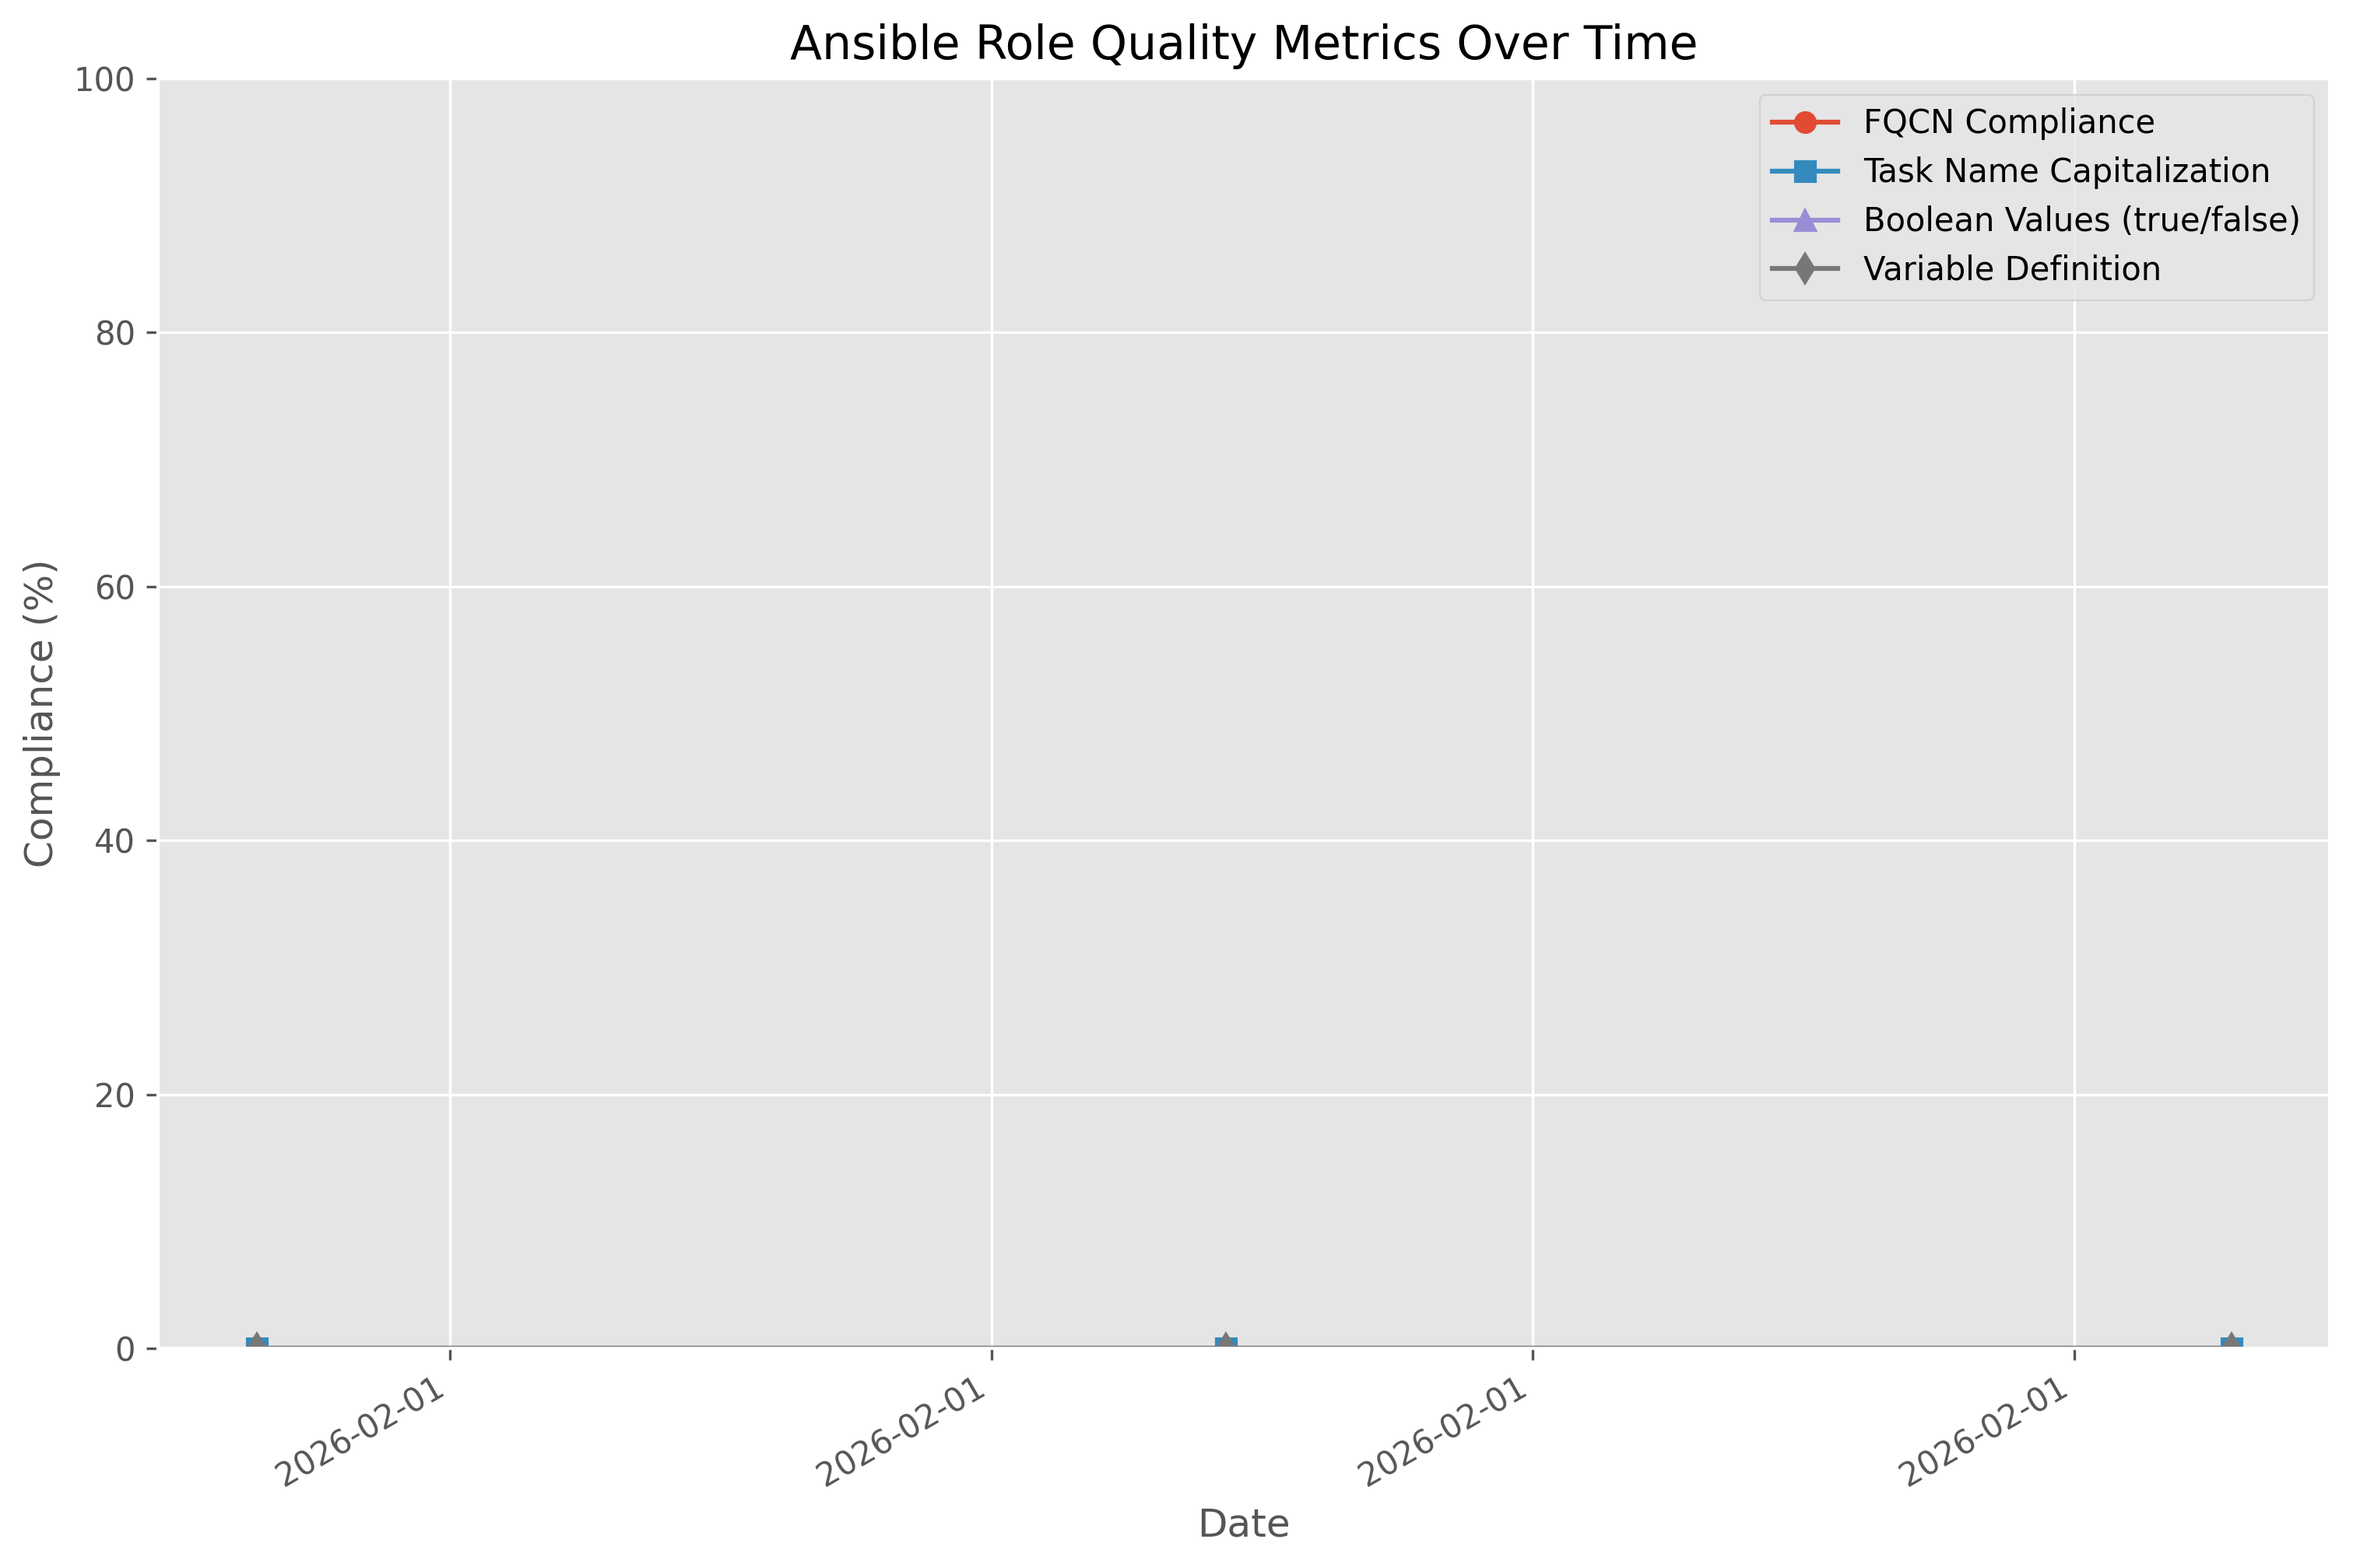
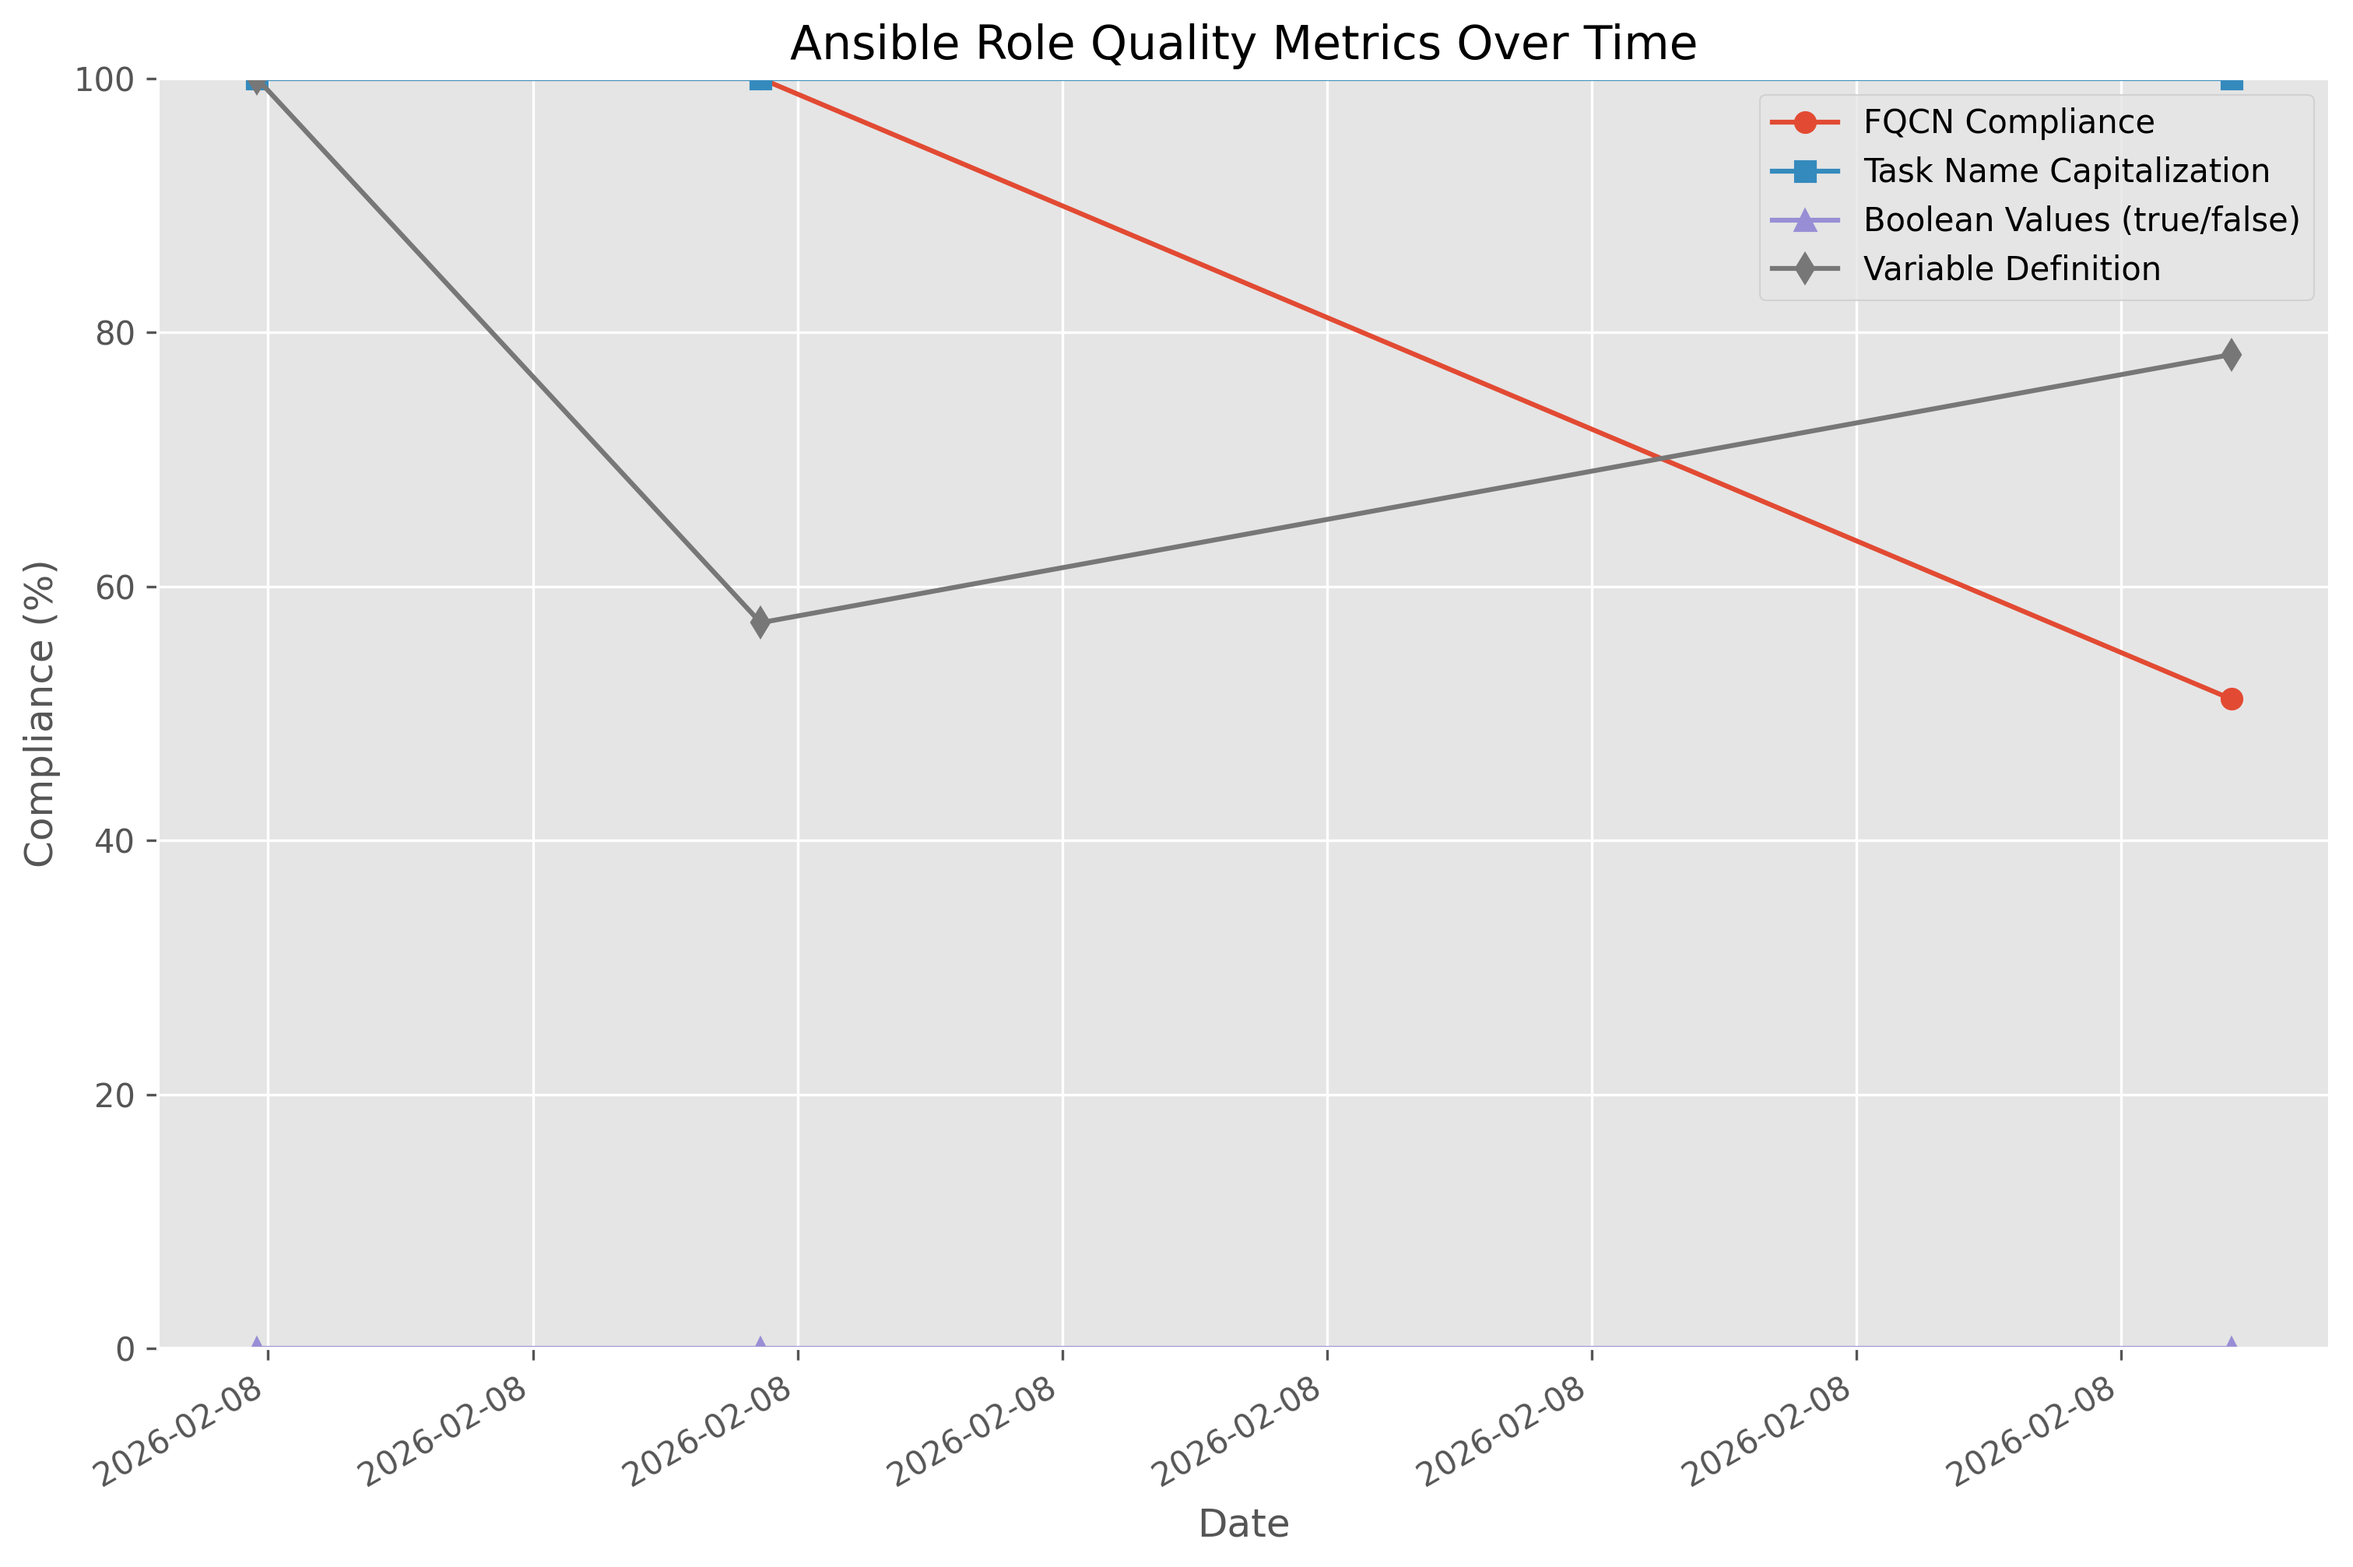
Update metrics (automated) 86381e575e3cb567ae7d61f2b827ec3665fe9a28

diff --git a/metrics/metrics_summary.md b/metrics/metrics_summary.md
@@ -1,15 +1,15 @@
 # Chef to Ansible Conversion Metrics
 
-Last updated: 2026-02-01 00:34:59
+Last updated: 2026-02-08 00:43:14
 
 ## Latest Compliance Metrics
 
 | Metric | Value |
 |--------|-------|
-| FQCN Compliance (%) | 0.00% |
-| Task Name Capitalization (%) | 0.00% |
+| FQCN Compliance (%) | 51.14% |
+| Task Name Capitalization (%) | 100.00% |
 | Boolean Values (true/false) (%) | 0.00% |
-| Variable Definition (%) | 0.00% |
+| Variable Definition (%) | 78.26% |
 
 ## Compliance Metrics Over Time
 
